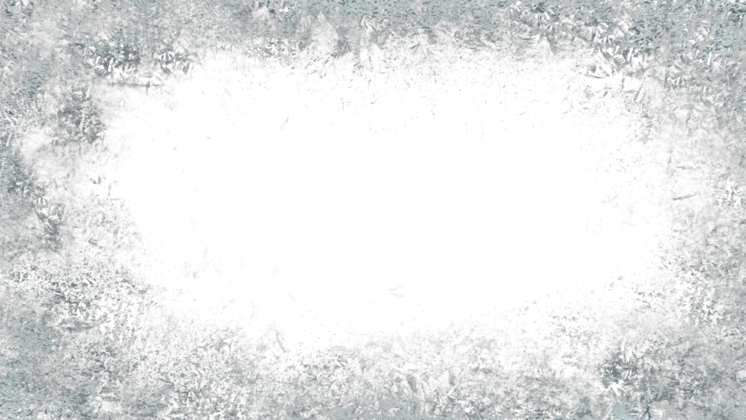
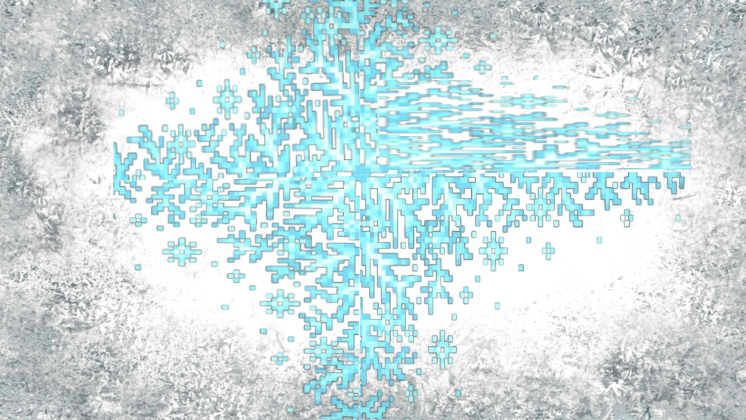
Support for animated textures

diff --git a/TetrisCpp/Game.cpp b/TetrisCpp/Game.cpp
@@ -7,6 +7,12 @@ ImageResize(&image##name, CellSize-GapSize, CellSize-GapSize); \
 name = LoadTextureFromImage(image##name); \
 UnloadImage(image##name)
 
+#define LoadAnimiatedPowerup(name, framesPerLine, lines) \
+Image image##name = LoadImage("Assets/Images/" #name "Atlas.png"); \
+ImageResize(&image##name, (CellSize-GapSize)*framesPerLine, (CellSize-GapSize)*lines); \
+name = LoadTextureFromImage(image##name); \
+UnloadImage(image##name)
+
 Game::Game()
 {
 	grid = Grid();
@@ -35,6 +41,14 @@ Game::Game()
 	LoadPowerup(LineBombPowerup);
 	LoadPowerup(ColorBombPowerup);
 
+	LoadAnimiatedPowerup(FirePowerup, 32, 1);
+
+	FireAnimation = FriedAnimatedTexure(&FirePowerup, 32, 1);
+
+	//imFirePowerup = LoadImageAnim("Assets/Images/FirePowerup.gif", &fireanimFrames);
+	//ImageResize(&imFirePowerup, CellSize - GapSize, CellSize - GapSize);
+	//FirePowerup = LoadTextureFromImage(imFirePowerup);
+
 }
 
 Game::~Game()
@@ -44,6 +58,7 @@ Game::~Game()
 	UnloadTexture(BombPowerup);
 	UnloadTexture(LineBombPowerup);
 	UnloadTexture(ColorBombPowerup);
+	UnloadTexture(FirePowerup);
 
 	UnloadSound(rotateSound);
 	UnloadSound(clearSound);
@@ -91,10 +106,14 @@ Block Game::GetRandomBlock()
 	blocks.erase(blocks.begin() + randomIndex);
 
 	PowerupType powerup {BlockNormal};
-	int randomPowerup = GetRandomValue(0,10);
-	if (randomPowerup <= 4)
+	int randomPowerup = GetRandomValue(0,20);
+	if (randomPowerup <= 5)
 	{
 		powerup = static_cast<PowerupType>(randomPowerup);
+	}
+	else
+	{
+		powerup = BlockFire;
 	}
 
 	block.powerup = powerup;
@@ -117,9 +136,7 @@ void Game::DrawBlock(Block *pBlock)
 			if (item.row < BufferRows) continue;
 			int x = item.column * CellSize + GapSize + OffSet;
 			int y = (item.row - BufferRows) * CellSize + GapSize + OffSet;
-			int w = CellSize - GapSize;
-			int h = CellSize - GapSize;
-			DrawPowerUp(pBlock->powerup, x, y, w, h);
+			DrawPowerUp(pBlock->powerup, x, y, (pBlock->id > 8));
 		}
 	}
 }
@@ -133,31 +150,52 @@ void Game::DrawBlockUI(Block* pBlock, int offX, int offY)
 		{
 			int x = item.column * CellSize + GapSize + OffSet + offX;
 			int y = item.row * CellSize + GapSize + OffSet + offY;
-			int w = CellSize - GapSize;
-			int h = CellSize - GapSize;
-			DrawPowerUp(pBlock->powerup, x,y,w,h);
+			DrawPowerUp(pBlock->powerup, x,y, (pBlock->id > 8));
 		}
 	}
 }
-
-void Game::DrawPowerUp(PowerupType powerup, int x, int y, int w, int h)
+void Game::UpdateAnimations()
 {
+	FireAnimation.Update();
+}
+
+
+#ifdef bals
+void Game::DrawPowerUp(PowerupType powerup, int x, int y, bool isShadow){}
+#endif
+void Game::DrawPowerUp(PowerupType powerup, int x, int y, bool isShadow)
+{
+
+	Color color;
+	if (isShadow)
+	{
+		color = {255, 255, 255, shadow;
+	}
+	else
+	{
+		color = {255, 255, 255, normal;
+	}
 	switch (powerup)
 	{
 	case BlockNormal:
-		DrawTexture(NormalPowerup, x, y, WHITE);
+		DrawTexture(NormalPowerup, x, y, color);
 		break;
 	case BlockFreeze:
-		DrawTexture(FreezePowerup, x, y, WHITE);
+		DrawTexture(FreezePowerup, x, y, color);
 		break;
 	case BlockBomb:
-		DrawTexture(BombPowerup, x, y, WHITE);
+		DrawTexture(BombPowerup, x, y, color);
 		break;
 	case BlockLineBomb:
-		DrawTexture(LineBombPowerup, x, y, WHITE);
+		DrawTexture(LineBombPowerup, x, y, color);
 		break;
 	case BlockColorBomb:
-		DrawTexture(ColorBombPowerup, x, y, WHITE);
+		DrawTexture(ColorBombPowerup, x, y, color);
+		break;
+	case BlockFire:
+		FireAnimation.Draw(x,y ,color);
+		//DrawTextureRec(FirePowerup, frameRec, {static_cast<float>(x),static_cast<float>(y) }, color);
+		//DrawTexture(FirePowerup, x, y, color);
 		break;
 	default:
 		break;
@@ -175,10 +213,8 @@ void Game::DrawGrid()
 			PowerupType cellValue = grid.powerups[r][c];
 			int x = c * CellSize + GapSize + OffSet;
 			int y = (r - BufferRows) * CellSize + GapSize + OffSet;
-			int w = CellSize - GapSize;
-			int h = CellSize - GapSize;
 
-			DrawPowerUp(cellValue, x, y, w, h);
+			DrawPowerUp(cellValue, x, y, false);
 		}
 	}
 }

diff --git a/TetrisCpp/FriedAnimatedTexure.cpp b/TetrisCpp/FriedAnimatedTexure.cpp
@@ -1,0 +1,53 @@
+#include "FriedAnimatedTexure.h"
+
+
+FriedAnimatedTexure::FriedAnimatedTexure() {}
+FriedAnimatedTexure::FriedAnimatedTexure(Texture2D* ptrTexture, int framesPerLine, int lines)
+{	
+	this->framesPerLine = framesPerLine;
+	this->lines = lines;
+	this->pTexture = ptrTexture;
+
+	// Init variables for animation
+	frameWidth = (float)(ptrTexture->width / framesPerLine);   // Sprite one frame rectangle width
+	frameHeight = (float)(ptrTexture->height / lines);           // Sprite one frame rectangle height
+	currentFrame = 0;
+	currentLine = 0;
+
+	frameRec = { 0, 0, frameWidth, frameHeight };
+	position = { 0.0f, 0.0f };
+
+	framesCounter = 0;
+}
+
+void FriedAnimatedTexure::Update()
+{
+	// Compute explosion animation frames
+	framesCounter++;
+
+	if (framesCounter > 2)
+	{
+		currentFrame++;
+
+		if (currentFrame >= framesPerLine)
+		{
+			currentFrame = 0;
+			currentLine++;
+
+			if (currentLine >= lines)
+			{
+				currentLine = 0;
+			}
+		}
+
+		framesCounter = 0;
+	}
+
+	frameRec.x = frameWidth * currentFrame;
+	frameRec.y = frameHeight * currentLine;
+}
+
+void FriedAnimatedTexure::Draw(int x, int y, Color color)
+{
+	DrawTextureRec(*pTexture, frameRec, { static_cast<float>(x),static_cast<float>(y) }, color);
+}

diff --git a/TetrisCpp/Game.h b/TetrisCpp/Game.h
@@ -1,6 +1,7 @@
 #pragma once
 #include "Grid.h"
 #include "Blocks.cpp"
+#include "FriedAnimatedTexure.h"
 
 class Game
 {
@@ -9,6 +10,8 @@ public:
 	~Game();
 	void Draw();
 	void HandleInput();
+	void UpdateAnimations();
+
 	void HandleMovement();
 	void MoveBlockDown();
 	void DropBlockDown();
@@ -32,7 +35,7 @@ private:
 
 	void DrawBlock(Block* pBlock);
 	void DrawBlockUI(Block* pBlock, int offX, int offY);
-	void DrawPowerUp(PowerupType powerup, int x, int y, int w, int h);
+	void DrawPowerUp(PowerupType powerup, int x, int y, bool isShadow);
 	void DrawGrid();
 
 
@@ -51,6 +54,9 @@ private:
 	Texture2D BombPowerup;
 	Texture2D LineBombPowerup;
 	Texture2D ColorBombPowerup;
+
+	Texture2D FirePowerup;
+	FriedAnimatedTexure FireAnimation;
 
 	Grid grid;
 	std::vector<Block> blocks;

diff --git a/TetrisCpp/FriedAnimatedTexure.h b/TetrisCpp/FriedAnimatedTexure.h
@@ -1,0 +1,28 @@
+#pragma once
+#include <Raylib.h>
+
+class FriedAnimatedTexure
+{
+public:
+	FriedAnimatedTexure();
+	FriedAnimatedTexure(Texture2D* ptrTexture, int framesPerLine, int lines);
+	void Update();
+	void Draw(int x, int y, Color color);
+private:
+	Texture2D *pTexture;
+
+	int framesPerLine;
+	int lines;
+
+	// Init variables for animation
+	float frameWidth;
+	float frameHeight;
+	int currentFrame;
+	int currentLine;
+
+	Rectangle frameRec;
+	Vector2 position;
+
+	int framesCounter;
+};
+

diff --git a/TetrisCpp/main.cpp b/TetrisCpp/main.cpp
@@ -51,6 +51,7 @@ int main()
 		UpdateMusicStream(game.music);
 		// updating
 
+		game.UpdateAnimations();
 		game.HandleInput();
 
 		if (TickGameSpeed(0.2))

diff --git a/TetrisCpp/Settings.h b/TetrisCpp/Settings.h
@@ -31,7 +31,7 @@
 #define white Color { 255, 255, 255,
 
 #define normal 255 }
-#define shadow 50 }
+#define shadow 80 }
 
 
 

diff --git a/TetrisCpp/PowerupType.h b/TetrisCpp/PowerupType.h
@@ -7,4 +7,5 @@ enum PowerupType
 	BlockBomb,
 	BlockLineBomb,
 	BlockColorBomb,
+	BlockFire,
 };
